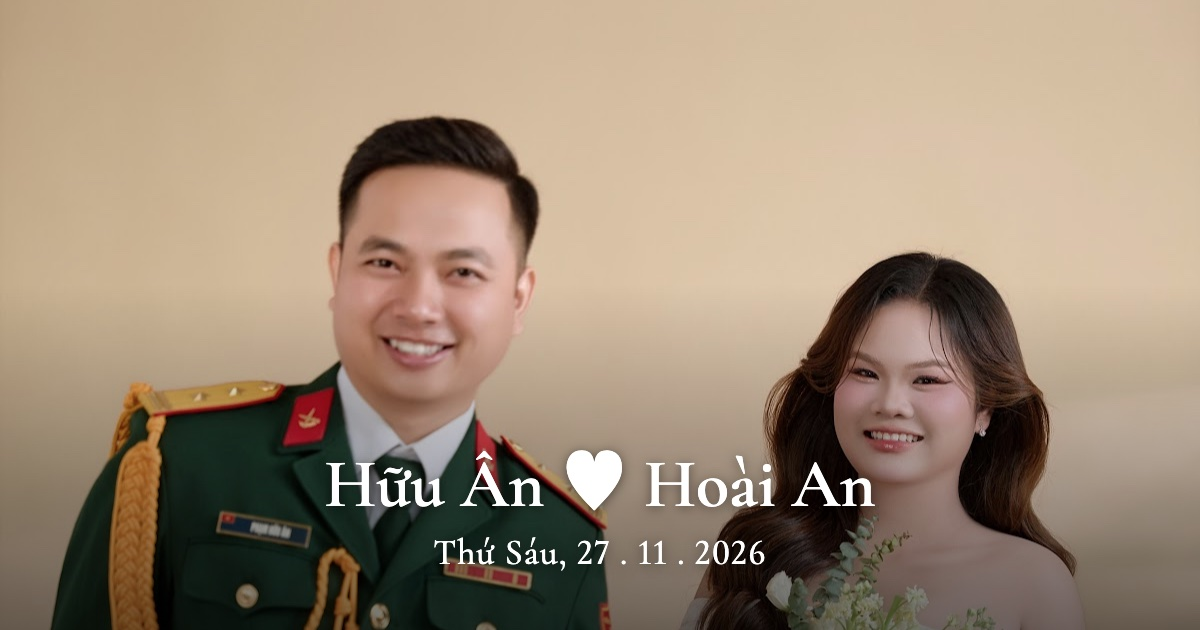
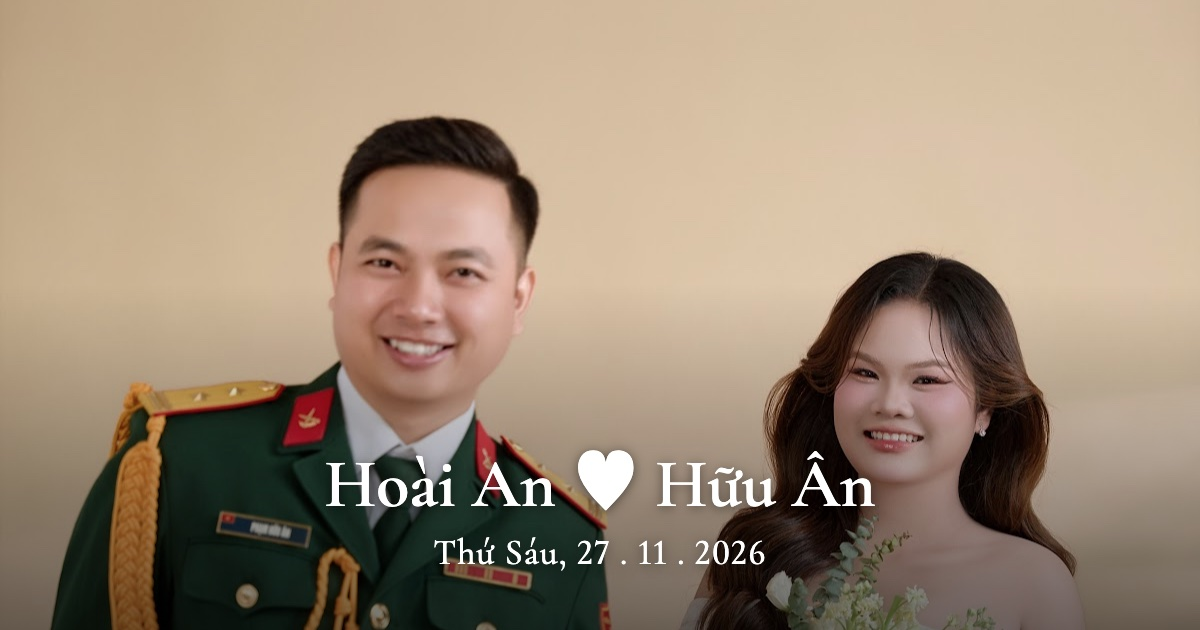
feat: thiệp Hoài An & Hữu Ân — mẫu 13 (lovecard thiepso13, tone xanh), bản nhà gái: tên cô dâu trước, Nhà Gái đứng trước, bộ 3 ảnh đảo lại; mời dự tiệc 17h00 Thứ 6 27/11/2026 tại tư gia nhà trai (issue #25)

Changed region(s): [[0.3083, 0.6937, 0.6475, 0.8143]]

diff --git a/dist/assets/index-8Z5KINST.js b/dist/assets/index-8Z5KINST.js
@@ -97,7 +97,7 @@ Error generating stack: `+i.message+`
  *
  * This source code is licensed under the ISC license.
  * See the LICENSE file in the root directory of this source tree.
- */const rp=kt("X",[["path",{d:"M18 6 6 18",key:"1bl5f8"}],["path",{d:"m6 6 12 12",key:"d8bk6v"}]]),gc="Thôn Trung Hoà, xã Quỳnh Phụ, tỉnh Hưng Yên",lp=null,ip={label:"Nhà Trai",father:null,mother:null,address:gc},op={label:"Nhà Gái",father:null,mother:null,address:lp},Wi={hero:{names:["Hữu Ân","Hoài An"],dateLines:["27.11","2026"],hint:"NHẤP VÀO THIỆP ĐỂ MỞ"},families:{sides:[ip,op],fullNames:["Phạm Hữu Ân","Nguyễn Hoài An"]},invitation:{announce:["Trân Trọng Báo Tin","Lễ Thành Hôn","Của"],kicker:"Trân Trọng Kính Mời",defaultGuest:"Quý khách",title:"Tham Dự Tiệc Mừng Lễ Thành Hôn"},events:{venueTitle:"Địa điểm tổ chức",mapLabel:"Xem trên Google Map",items:[{id:"thanh-hon",title:null,hour:"17 giờ 00",weekday:"Thứ 6",day:"27",monthYear:"11 - 2026",lunar:"( Tức ngày 19 tháng 10 năm Bính Ngọ )",place:"Tư Gia Nhà Trai",address:gc,mapQuery:"20.64821434020996,106.31898498535156"}]},calendar:{dateIso:"2026-11-27",photoCaption:"My Love"},gift:{button:"Gửi Mừng Cưới",title:"Hộp Quà Mừng Cưới",copyLabel:"Copy STK",copiedLabel:"Đã copy",saveQrLabel:"Lưu ảnh QR",accounts:[{holder:"NGUYEN HOAI AN",number:"0325101587",bank:"MB Bank",qr:"/images/qr-mb.png"}]},album:{title:"Album Hình Cưới"},thanks:{title:"Thank you",text:"Sự hiện diện của quý vị là niềm vinh hạnh cho gia đình chúng tôi!"},music:{src:"/music/vay-cuoi.mp3",volume:.45}},ve={hero:"/images/studio-1.jpg",wide:"/images/ao-dai-ngang.jpg",trio:["/images/chu-re.jpg","/images/studio-2.jpg","/images/co-dau.jpg"],polaroid:"/images/ao-dai-1.jpg",album:["/images/ao-dai-3.jpg","/images/ho-guom-1.jpg","/images/ao-dai-4.jpg","/images/studio-4.jpg","/images/ao-dai-ngang-2.jpg","/images/pho-1.jpg","/images/studio-5.jpg","/images/studio-6.jpg","/images/ao-dai-5.jpg","/images/pho-2.jpg","/images/studio-7.jpg","/images/ao-dai-6.jpg","/images/ho-guom-ngang.jpg","/images/studio-8.jpg","/images/studio-9.jpg","/images/ho-guom-2.jpg"],gift:"/images/studio-3.jpg",thankYou:"/images/ao-dai-2.jpg",deco:{pbDong:"/images/deco-pb-dong.png",pbMoSau:"/images/deco-pb-mo-sau.png",pbMoTruoc:"/images/deco-pb-mo-truoc.png",hyXanh:"/images/deco-hy-xanh.png",hyTrang:"/images/deco-hy-trang.png",thiepMoiCuoi:"/images/deco-thiep-moi-cuoi.png",laMauNuoc:"/images/deco-la-mau-nuoc.png",laGoc:"/images/deco-la-goc.png",laCanh:"/images/deco-la-canh.png",nhan:"/images/deco-nhan.png",nhanDoi:"/images/deco-nhan-doi.png",hoaSen:"/images/deco-hoa-sen.png",timVanTay:"/images/deco-tim-van-tay.png"}};function up(e){return e.some(t=>t.editable)}const Ju="guest-links:names",sp="/tao-link";function ap(){try{return window.location.pathname.replace(/\/+$/,"")===sp}catch{return!1}}function Jl(e,t,n=""){return`${e}/?khach=${encodeURIComponent(t)}${n}`}async function cp(e){try{return await navigator.clipboard.writeText(e),!0}catch{const t=document.createElement("textarea");t.value=e,t.style.position="fixed",t.style.opacity="0",document.body.appendChild(t),t.select();const n=document.execCommand("copy");return document.body.removeChild(t),n}}function qu({text:e,label:t="Sao chép",className:n=""}){const[r,l]=P.useState(!1);async function i(){await cp(e)&&(l(!0),setTimeout(()=>l(!1),1500))}return a.jsxs("button",{type:"button",onClick:i,className:`inline-flex shrink-0 items-center gap-1.5 rounded-lg px-3 py-1.5 text-sm font-semibold transition ${r?"bg-green-600 text-white":"bg-[#9e3745] text-white hover:bg-[#7e2b37]"} ${n}`,children:[r?a.jsx(hc,{className:"h-4 w-4","aria-hidden":!0}):a.jsx(vc,{className:"h-4 w-4","aria-hidden":!0}),r?"Đã chép":t]})}function fp(){const e=P.useMemo(()=>window.location.origin,[]),[t,n]=P.useState(()=>{try{return localStorage.getItem(Ju)??""}catch{return""}}),[r,l]=P.useState(!0),i=up(Wi.events.items),o=Wi.events.items.find(y=>y.editable),[u,s]=P.useState(""),[f,g]=P.useState(""),v=(u?`&gio=${u}`:"")+(f?`&ngay=${f}`:"");P.useEffect(()=>{try{localStorage.setItem(Ju,t)}catch{}},[t]);const m=P.useMemo(()=>{const y=new Set;return t.split(`
+ */const rp=kt("X",[["path",{d:"M18 6 6 18",key:"1bl5f8"}],["path",{d:"m6 6 12 12",key:"d8bk6v"}]]),gc="Thôn Trung Hoà, xã Quỳnh Phụ, tỉnh Hưng Yên",lp=null,ip={label:"Nhà Trai",father:null,mother:null,address:gc},op={label:"Nhà Gái",father:null,mother:null,address:lp},Wi={hero:{names:["Hoài An","Hữu Ân"],dateLines:["27.11","2026"],hint:"NHẤP VÀO THIỆP ĐỂ MỞ"},families:{sides:[op,ip],fullNames:["Nguyễn Hoài An","Phạm Hữu Ân"]},invitation:{announce:["Trân Trọng Báo Tin","Lễ Thành Hôn","Của"],kicker:"Trân Trọng Kính Mời",defaultGuest:"Quý khách",title:"Tham Dự Tiệc Mừng Lễ Thành Hôn"},events:{venueTitle:"Địa điểm tổ chức",mapLabel:"Xem trên Google Map",items:[{id:"thanh-hon",title:null,hour:"17 giờ 00",weekday:"Thứ 6",day:"27",monthYear:"11 - 2026",lunar:"( Tức ngày 19 tháng 10 năm Bính Ngọ )",place:"Tư Gia Nhà Trai",address:gc,mapQuery:"20.64821434020996,106.31898498535156"}]},calendar:{dateIso:"2026-11-27",photoCaption:"My Love"},gift:{button:"Gửi Mừng Cưới",title:"Hộp Quà Mừng Cưới",copyLabel:"Copy STK",copiedLabel:"Đã copy",saveQrLabel:"Lưu ảnh QR",accounts:[{holder:"NGUYEN HOAI AN",number:"0325101587",bank:"MB Bank",qr:"/images/qr-mb.png"}]},album:{title:"Album Hình Cưới"},thanks:{title:"Thank you",text:"Sự hiện diện của quý vị là niềm vinh hạnh cho gia đình chúng tôi!"},music:{src:"/music/vay-cuoi.mp3",volume:.45}},ve={hero:"/images/studio-1.jpg",wide:"/images/ao-dai-ngang.jpg",trio:["/images/co-dau.jpg","/images/studio-2.jpg","/images/chu-re.jpg"],polaroid:"/images/ao-dai-1.jpg",album:["/images/ao-dai-3.jpg","/images/ho-guom-1.jpg","/images/ao-dai-4.jpg","/images/studio-4.jpg","/images/ao-dai-ngang-2.jpg","/images/pho-1.jpg","/images/studio-5.jpg","/images/studio-6.jpg","/images/ao-dai-5.jpg","/images/pho-2.jpg","/images/studio-7.jpg","/images/ao-dai-6.jpg","/images/ho-guom-ngang.jpg","/images/studio-8.jpg","/images/studio-9.jpg","/images/ho-guom-2.jpg"],gift:"/images/studio-3.jpg",thankYou:"/images/ao-dai-2.jpg",deco:{pbDong:"/images/deco-pb-dong.png",pbMoSau:"/images/deco-pb-mo-sau.png",pbMoTruoc:"/images/deco-pb-mo-truoc.png",hyXanh:"/images/deco-hy-xanh.png",hyTrang:"/images/deco-hy-trang.png",thiepMoiCuoi:"/images/deco-thiep-moi-cuoi.png",laMauNuoc:"/images/deco-la-mau-nuoc.png",laGoc:"/images/deco-la-goc.png",laCanh:"/images/deco-la-canh.png",nhan:"/images/deco-nhan.png",nhanDoi:"/images/deco-nhan-doi.png",hoaSen:"/images/deco-hoa-sen.png",timVanTay:"/images/deco-tim-van-tay.png"}};function up(e){return e.some(t=>t.editable)}const Ju="guest-links:names",sp="/tao-link";function ap(){try{return window.location.pathname.replace(/\/+$/,"")===sp}catch{return!1}}function Jl(e,t,n=""){return`${e}/?khach=${encodeURIComponent(t)}${n}`}async function cp(e){try{return await navigator.clipboard.writeText(e),!0}catch{const t=document.createElement("textarea");t.value=e,t.style.position="fixed",t.style.opacity="0",document.body.appendChild(t),t.select();const n=document.execCommand("copy");return document.body.removeChild(t),n}}function qu({text:e,label:t="Sao chép",className:n=""}){const[r,l]=P.useState(!1);async function i(){await cp(e)&&(l(!0),setTimeout(()=>l(!1),1500))}return a.jsxs("button",{type:"button",onClick:i,className:`inline-flex shrink-0 items-center gap-1.5 rounded-lg px-3 py-1.5 text-sm font-semibold transition ${r?"bg-green-600 text-white":"bg-[#9e3745] text-white hover:bg-[#7e2b37]"} ${n}`,children:[r?a.jsx(hc,{className:"h-4 w-4","aria-hidden":!0}):a.jsx(vc,{className:"h-4 w-4","aria-hidden":!0}),r?"Đã chép":t]})}function fp(){const e=P.useMemo(()=>window.location.origin,[]),[t,n]=P.useState(()=>{try{return localStorage.getItem(Ju)??""}catch{return""}}),[r,l]=P.useState(!0),i=up(Wi.events.items),o=Wi.events.items.find(y=>y.editable),[u,s]=P.useState(""),[f,g]=P.useState(""),v=(u?`&gio=${u}`:"")+(f?`&ngay=${f}`:"");P.useEffect(()=>{try{localStorage.setItem(Ju,t)}catch{}},[t]);const m=P.useMemo(()=>{const y=new Set;return t.split(`
 `).map(T=>T.replace(/\s+/g," ").trim()).filter(T=>T&&!y.has(T.toLowerCase())&&y.add(T.toLowerCase()))},[t]),h=m.map(y=>r?`${y}: ${Jl(e,y,v)}`:Jl(e,y,v)),x=document.title;return a.jsx("div",{className:"min-h-screen bg-[#f8f6f2] px-4 py-8 font-sans text-[#1f1f1f]",children:a.jsxs("main",{className:"mx-auto max-w-[640px]",children:[a.jsx("h1",{className:"text-2xl font-bold",children:"Tạo link mời khách"}),a.jsxs("p",{className:"mt-1 text-sm text-black/60",children:["Thiệp: ",a.jsx("b",{children:x})]}),i&&a.jsxs("section",{className:"mt-6 rounded-xl bg-white p-4 shadow-sm",children:[a.jsxs("p",{className:"text-sm font-semibold",children:['Thời gian "',o.title,'" (để trống = giữ như trong thiệp)']}),a.jsxs("div",{className:"mt-2 flex flex-wrap gap-3",children:[a.jsxs("label",{className:"text-sm",children:["Giờ",a.jsx("input",{type:"time",value:u,onChange:y=>s(y.target.value),className:"ml-2 rounded-lg border border-black/20 px-2 py-1"})]}),a.jsxs("label",{className:"text-sm",children:["Ngày",a.jsx("input",{type:"date",value:f,onChange:y=>g(y.target.value),className:"ml-2 rounded-lg border border-black/20 px-2 py-1"})]})]}),a.jsx("p",{className:"mt-2 text-xs text-black/50",children:"Giờ / ngày được gắn vào mọi link bên dưới; thứ trong tuần tự tính."})]}),a.jsx("label",{className:"mt-6 block text-sm font-semibold",htmlFor:"guest-names",children:"Tên khách mời — mỗi dòng một người, ghi cả xưng hô (vd: Cô Lan, Gia đình bác Hùng, Anh Tuấn)"}),a.jsx("textarea",{id:"guest-names",value:t,onChange:y=>n(y.target.value),rows:8,placeholder:`Cô Lan
 Gia đình bác Hùng
 Anh Tuấn & chị Mai`,className:"mt-2 w-full rounded-xl border border-black/20 bg-white p-3 text-base outline-none focus:border-[#9e3745]"}),a.jsx("p",{className:"mt-1 text-xs text-black/50",children:"Danh sách được lưu trên trình duyệt này, mở lại trang vẫn còn."}),m.length>0&&a.jsxs(a.Fragment,{children:[a.jsxs("div",{className:"mt-6 flex flex-wrap items-center justify-between gap-3",children:[a.jsxs("p",{className:"font-semibold",children:[m.length," link"]}),a.jsxs("div",{className:"flex items-center gap-3",children:[a.jsxs("label",{className:"flex items-center gap-1.5 text-sm",children:[a.jsx("input",{type:"checkbox",checked:r,onChange:y=>l(y.target.checked)}),"Kèm tên khi chép tất cả"]}),a.jsx(qu,{text:h.join(`

diff --git a/dist/index.html b/dist/index.html
@@ -3,28 +3,28 @@
   <head>
     <meta charset="UTF-8" />
     <meta name="viewport" content="width=device-width, initial-scale=1.0" />
-    <title>Hữu Ân &amp; Hoài An</title>
-    <meta name="description" content="Thiệp cưới Hữu Ân &amp; Hoài An — Thứ Sáu, 27.11.2026. Trân trọng kính mời." />
+    <title>Hoài An &amp; Hữu Ân</title>
+    <meta name="description" content="Thiệp cưới Hoài An &amp; Hữu Ân — Thứ Sáu, 27.11.2026. Trân trọng kính mời." />
     <!-- Link preview (Zalo, Facebook, iMessage, v.v.) dùng og:title / og:description -->
     <meta property="og:type" content="website" />
-    <meta property="og:site_name" content="Hữu Ân &amp; Hoài An" />
-    <meta property="og:title" content="Hữu Ân &amp; Hoài An" />
-    <meta property="og:description" content="Thiệp cưới Hữu Ân &amp; Hoài An — Thứ Sáu, 27.11.2026. Trân trọng kính mời." />
+    <meta property="og:site_name" content="Hoài An &amp; Hữu Ân" />
+    <meta property="og:title" content="Hoài An &amp; Hữu Ân" />
+    <meta property="og:description" content="Thiệp cưới Hoài An &amp; Hữu Ân — Thứ Sáu, 27.11.2026. Trân trọng kính mời." />
     <meta property="og:locale" content="vi_VN" />
-    <meta property="og:image" content="https://huuan-hoaian.vercel.app/images/og.jpg" />
+    <meta property="og:image" content="https://hoaian-huuan.vercel.app/images/og.jpg" />
     <meta property="og:image:width" content="1200" />
     <meta property="og:image:height" content="630" />
     <meta name="twitter:card" content="summary_large_image" />
-    <meta name="twitter:title" content="Hữu Ân &amp; Hoài An" />
-    <meta name="twitter:description" content="Thiệp cưới Hữu Ân &amp; Hoài An — Thứ Sáu, 27.11.2026. Trân trọng kính mời." />
-    <meta name="twitter:image" content="https://huuan-hoaian.vercel.app/images/og.jpg" />
+    <meta name="twitter:title" content="Hoài An &amp; Hữu Ân" />
+    <meta name="twitter:description" content="Thiệp cưới Hoài An &amp; Hữu Ân — Thứ Sáu, 27.11.2026. Trân trọng kính mời." />
+    <meta name="twitter:image" content="https://hoaian-huuan.vercel.app/images/og.jpg" />
     <link rel="preconnect" href="https://fonts.googleapis.com" />
     <link rel="preconnect" href="https://fonts.gstatic.com" crossorigin />
     <link
       href="https://fonts.googleapis.com/css2?family=Arizonia&family=Chonburi&family=Cormorant+Upright:wght@400;600&family=Dancing+Script:wght@400;700&family=Ephesis&family=Great+Vibes&family=Imperial+Script&family=Judson:wght@400;700&family=Lora:wght@400;700&family=Mea+Culpa&family=MonteCarlo&family=Open+Sans:wght@400;700&family=Oswald:wght@400;700&family=Passions+Conflict&family=Philosopher:wght@400;700&family=Pinyon+Script&family=Quicksand:wght@400;500;600;700&family=Roboto:wght@400&family=Tinos:ital,wght@0,400;0,700;1,400&family=Trirong:wght@400;700&display=swap"
       rel="stylesheet"
     />
-    <script type="module" crossorigin src="/assets/index-llFuF4Ug.js"></script>
+    <script type="module" crossorigin src="/assets/index-8Z5KINST.js"></script>
     <link rel="stylesheet" crossorigin href="/assets/index-DM22_fKg.css">
   </head>
   <body>

diff --git a/index.html b/index.html
@@ -3,21 +3,21 @@
   <head>
     <meta charset="UTF-8" />
     <meta name="viewport" content="width=device-width, initial-scale=1.0" />
-    <title>Hữu Ân &amp; Hoài An</title>
-    <meta name="description" content="Thiệp cưới Hữu Ân &amp; Hoài An — Thứ Sáu, 27.11.2026. Trân trọng kính mời." />
+    <title>Hoài An &amp; Hữu Ân</title>
+    <meta name="description" content="Thiệp cưới Hoài An &amp; Hữu Ân — Thứ Sáu, 27.11.2026. Trân trọng kính mời." />
     <!-- Link preview (Zalo, Facebook, iMessage, v.v.) dùng og:title / og:description -->
     <meta property="og:type" content="website" />
-    <meta property="og:site_name" content="Hữu Ân &amp; Hoài An" />
-    <meta property="og:title" content="Hữu Ân &amp; Hoài An" />
-    <meta property="og:description" content="Thiệp cưới Hữu Ân &amp; Hoài An — Thứ Sáu, 27.11.2026. Trân trọng kính mời." />
+    <meta property="og:site_name" content="Hoài An &amp; Hữu Ân" />
+    <meta property="og:title" content="Hoài An &amp; Hữu Ân" />
+    <meta property="og:description" content="Thiệp cưới Hoài An &amp; Hữu Ân — Thứ Sáu, 27.11.2026. Trân trọng kính mời." />
     <meta property="og:locale" content="vi_VN" />
-    <meta property="og:image" content="https://huuan-hoaian.vercel.app/images/og.jpg" />
+    <meta property="og:image" content="https://hoaian-huuan.vercel.app/images/og.jpg" />
     <meta property="og:image:width" content="1200" />
     <meta property="og:image:height" content="630" />
     <meta name="twitter:card" content="summary_large_image" />
-    <meta name="twitter:title" content="Hữu Ân &amp; Hoài An" />
-    <meta name="twitter:description" content="Thiệp cưới Hữu Ân &amp; Hoài An — Thứ Sáu, 27.11.2026. Trân trọng kính mời." />
-    <meta name="twitter:image" content="https://huuan-hoaian.vercel.app/images/og.jpg" />
+    <meta name="twitter:title" content="Hoài An &amp; Hữu Ân" />
+    <meta name="twitter:description" content="Thiệp cưới Hoài An &amp; Hữu Ân — Thứ Sáu, 27.11.2026. Trân trọng kính mời." />
+    <meta name="twitter:image" content="https://hoaian-huuan.vercel.app/images/og.jpg" />
     <link rel="preconnect" href="https://fonts.googleapis.com" />
     <link rel="preconnect" href="https://fonts.gstatic.com" crossorigin />
     <link

diff --git a/src/content.js b/src/content.js
@@ -22,7 +22,7 @@ const BRIDE_SIDE = {
 export const content = {
   hero: {
     /** Hiển thị theo đúng thứ tự này (cũng là dòng tên dưới lời mời và ký tên mục Thank You) */
-    names: ['Hữu Ân', 'Hoài An'],
+    names: ['Hoài An', 'Hữu Ân'],
     /** Hai dòng dưới tên: ngày.tháng / năm */
     dateLines: ['27.11', '2026'],
     hint: 'NHẤP VÀO THIỆP ĐỂ MỞ',
@@ -30,9 +30,9 @@ export const content = {
 
   families: {
     /** Hai khối gia đình, từ trên xuống theo thứ tự này */
-    sides: [GROOM_SIDE, BRIDE_SIDE],
+    sides: [BRIDE_SIDE, GROOM_SIDE],
     /** Họ tên đầy đủ — dòng "Trân trọng báo tin lễ thành hôn của" */
-    fullNames: ['Phạm Hữu Ân', 'Nguyễn Hoài An'],
+    fullNames: ['Nguyễn Hoài An', 'Phạm Hữu Ân'],
   },
 
   invitation: {
@@ -48,6 +48,8 @@ export const content = {
     mapLabel: 'Xem trên Google Map',
     items: [
       {
+        // Khách chỉ gửi một sự kiện (tư gia nhà trai) — bản nhà gái mời khách dự cùng tiệc này.
+        // TODO: nếu nhà gái có tiệc Vu Quy riêng thì hỏi giờ / ngày / địa chỉ rồi thay vào đây (issue #25)
         id: 'thanh-hon',
         title: null,
         /** Giờ đón khách dự tiệc — Lễ Thành Hôn cử hành lúc 18h00 cùng ngày (issue #25) */

diff --git a/src/image.js b/src/image.js
@@ -7,8 +7,8 @@ export const images = {
   hero: '/images/studio-1.jpg',
   /** Ảnh ngang bo góc viền xanh dưới "Trân trọng báo tin" (387×285) */
   wide: '/images/ao-dai-ngang.jpg',
-  /** 3 ảnh dọc dưới "Trân trọng kính mời": trái, giữa (to hơn), phải — bản nhà trai: chú rể, ảnh đôi, cô dâu */
-  trio: ['/images/chu-re.jpg', '/images/studio-2.jpg', '/images/co-dau.jpg'],
+  /** 3 ảnh dọc dưới "Trân trọng kính mời": trái, giữa (to hơn), phải — bản nhà gái: cô dâu, ảnh đôi, chú rể */
+  trio: ['/images/co-dau.jpg', '/images/studio-2.jpg', '/images/chu-re.jpg'],
   /** Ảnh polaroid cạnh lịch */
   polaroid: '/images/ao-dai-1.jpg',
   /** Album 2 cột so le — ảnh chẵn cột trái, ảnh lẻ cột phải (ô thứ 5 của mỗi 8 ảnh là khung ngang) */
